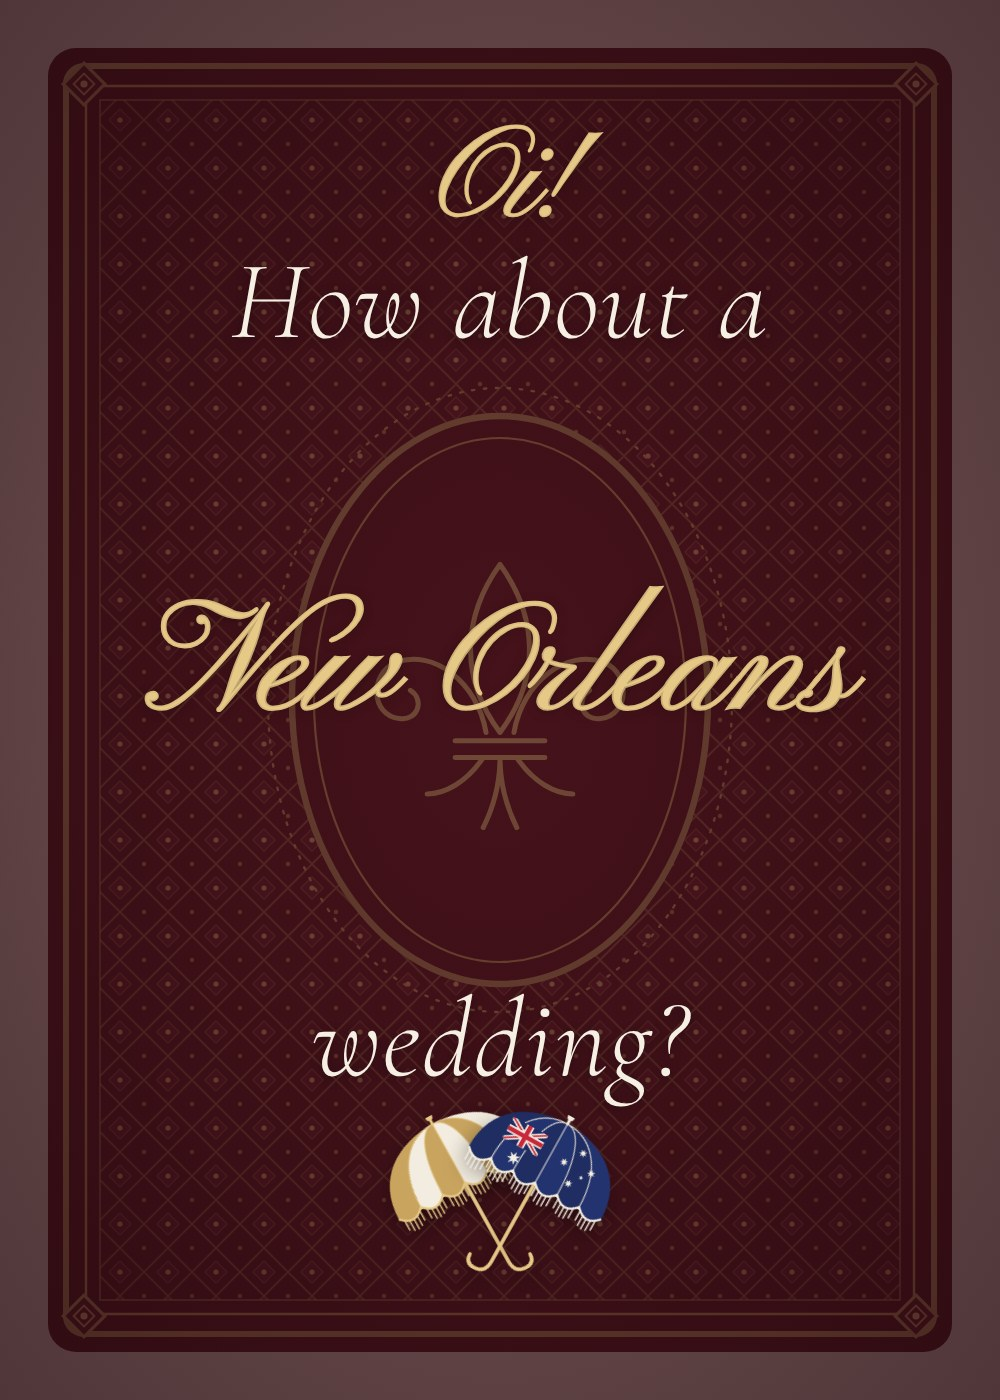
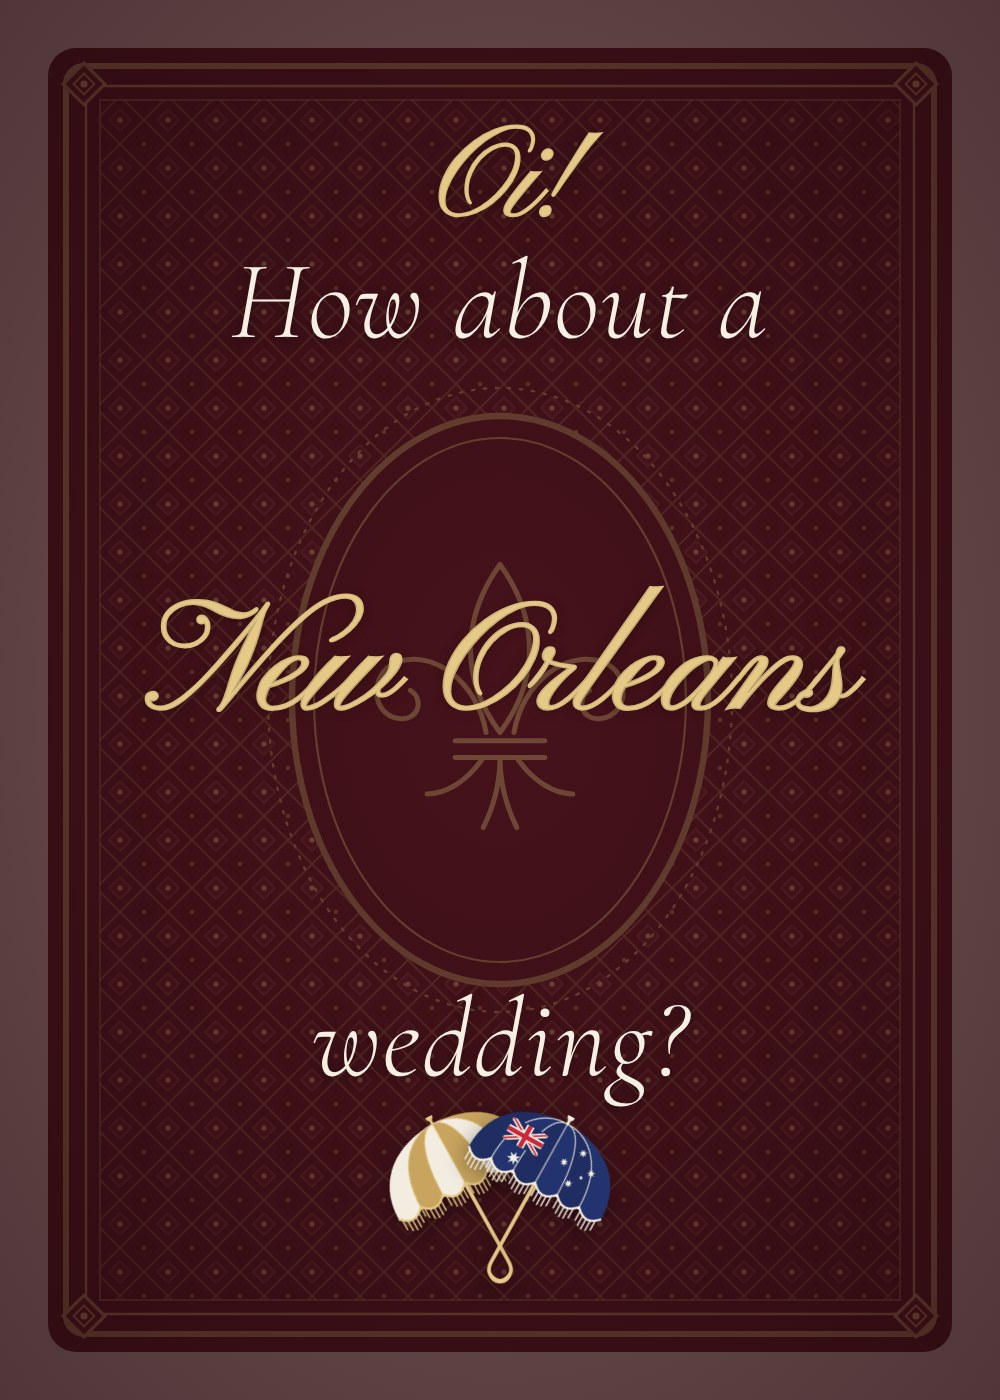
Link preview: parasol hooks face outward
Claude-Session: https://claude.ai/code/session_016KBQnmGzJaodTgtuWJa9K5

Changed region(s): [[0.372, 0.7679, 0.496, 0.8907], [0.465, 0.8907, 0.527, 0.9214]]

diff --git a/tools/make-previews.js b/tools/make-previews.js
@@ -51,7 +51,7 @@ ${pos.oi ? `.title div.a,.title div.wed span{font-size:${112*k}px}
 .title .crossed .cp{position:absolute;left:50%;top:0;width:${168*k}px;margin-left:${-84*k}px;transform-origin:50% 80%;filter:drop-shadow(0 8px 10px rgba(0,0,0,.35))}
 .title .crossed .cp svg{display:block;width:100%;height:auto}
 .title .crossed .cp path[stroke="#3a2a22"]{stroke:#e6c887}
-.title .crossed .l{transform:translate(0,-80%) rotate(-29deg) scaleX(-1)}
+.title .crossed .l{transform:translate(0,-80%) rotate(-29deg)}
 .title .crossed .r{transform:translate(0,-80%) rotate(29deg);z-index:2}` : ""}
 .title .wed.w1{top:${pos.w1 || 0}px}
 .title .wed .w{position:relative;display:inline-block}
@@ -73,7 +73,7 @@ const star = (cx, cy, r, n) => {
   return `<polygon points="${pts.join(" ")}" fill="#f6f0e4"/>`;
 };
 // Australian flag parasol: navy canopy, Union Jack in the upper hoist, Commonwealth Star, Southern Cross.
-const ausParasol = parasolSVG(["#1f2d63", "#22336f", "#f3ece0"]).replace("</svg>", `
+const ausParasol = parasolSVG(["#1f2d63", "#22336f", "#f3ece0"]).replace("M60 56 L60 118 Q60 128 51 128 Q44 128 44 121", "M60 56 L60 118 Q60 128 69 128 Q76 128 76 121").replace("</svg>", `
 <clipPath id="ujc"><rect x="24" y="20" width="28" height="17"/></clipPath>
 <g clip-path="url(#ujc)">
   <rect x="24" y="20" width="28" height="17" fill="#1f2d63"/>

diff --git a/home.html b/home.html
@@ -11,7 +11,7 @@
   <meta property="og:url" content="https://aneworleanswedding.com/home.html">
   <meta property="og:title" content="Ailsa ⚜ André">
   <meta property="og:description" content="Save the date · January 8, 2028 · New Orleans, Louisiana">
-  <meta property="og:image" content="https://aneworleanswedding.com/assets/og-card-portrait.jpg?v=18">
+  <meta property="og:image" content="https://aneworleanswedding.com/assets/og-card-portrait.jpg?v=19">
   <meta property="og:image:type" content="image/jpeg">
   <meta property="og:image:width" content="1000">
   <meta property="og:image:height" content="1400">
@@ -19,7 +19,7 @@
   <meta name="twitter:card" content="summary_large_image">
   <meta name="twitter:title" content="Ailsa ⚜ André">
   <meta name="twitter:description" content="Save the date · January 8, 2028 · New Orleans, Louisiana">
-  <meta name="twitter:image" content="https://aneworleanswedding.com/assets/og-card-portrait.jpg?v=18">
+  <meta name="twitter:image" content="https://aneworleanswedding.com/assets/og-card-portrait.jpg?v=19">
   <meta name="theme-color" content="#f8f4ec">
   <link rel="icon" href="favicon.svg" type="image/svg+xml">
   <link rel="apple-touch-icon" href="apple-touch-icon.png">

diff --git a/index.html b/index.html
@@ -11,7 +11,7 @@
   <meta property="og:url" content="https://aneworleanswedding.com/">
   <meta property="og:title" content="Ailsa ⚜ André">
   <meta property="og:description" content="Save the date · January 8, 2028 · New Orleans, Louisiana">
-  <meta property="og:image" content="https://aneworleanswedding.com/assets/og-card-portrait.jpg?v=18">
+  <meta property="og:image" content="https://aneworleanswedding.com/assets/og-card-portrait.jpg?v=19">
   <meta property="og:image:type" content="image/jpeg">
   <meta property="og:image:width" content="1000">
   <meta property="og:image:height" content="1400">
@@ -19,7 +19,7 @@
   <meta name="twitter:card" content="summary_large_image">
   <meta name="twitter:title" content="Ailsa ⚜ André">
   <meta name="twitter:description" content="Save the date · January 8, 2028 · New Orleans, Louisiana">
-  <meta name="twitter:image" content="https://aneworleanswedding.com/assets/og-card-portrait.jpg?v=18">
+  <meta name="twitter:image" content="https://aneworleanswedding.com/assets/og-card-portrait.jpg?v=19">
   <meta name="theme-color" content="#f8f4ec">
   <link rel="icon" href="favicon.svg" type="image/svg+xml">
   <link rel="apple-touch-icon" href="apple-touch-icon.png">
